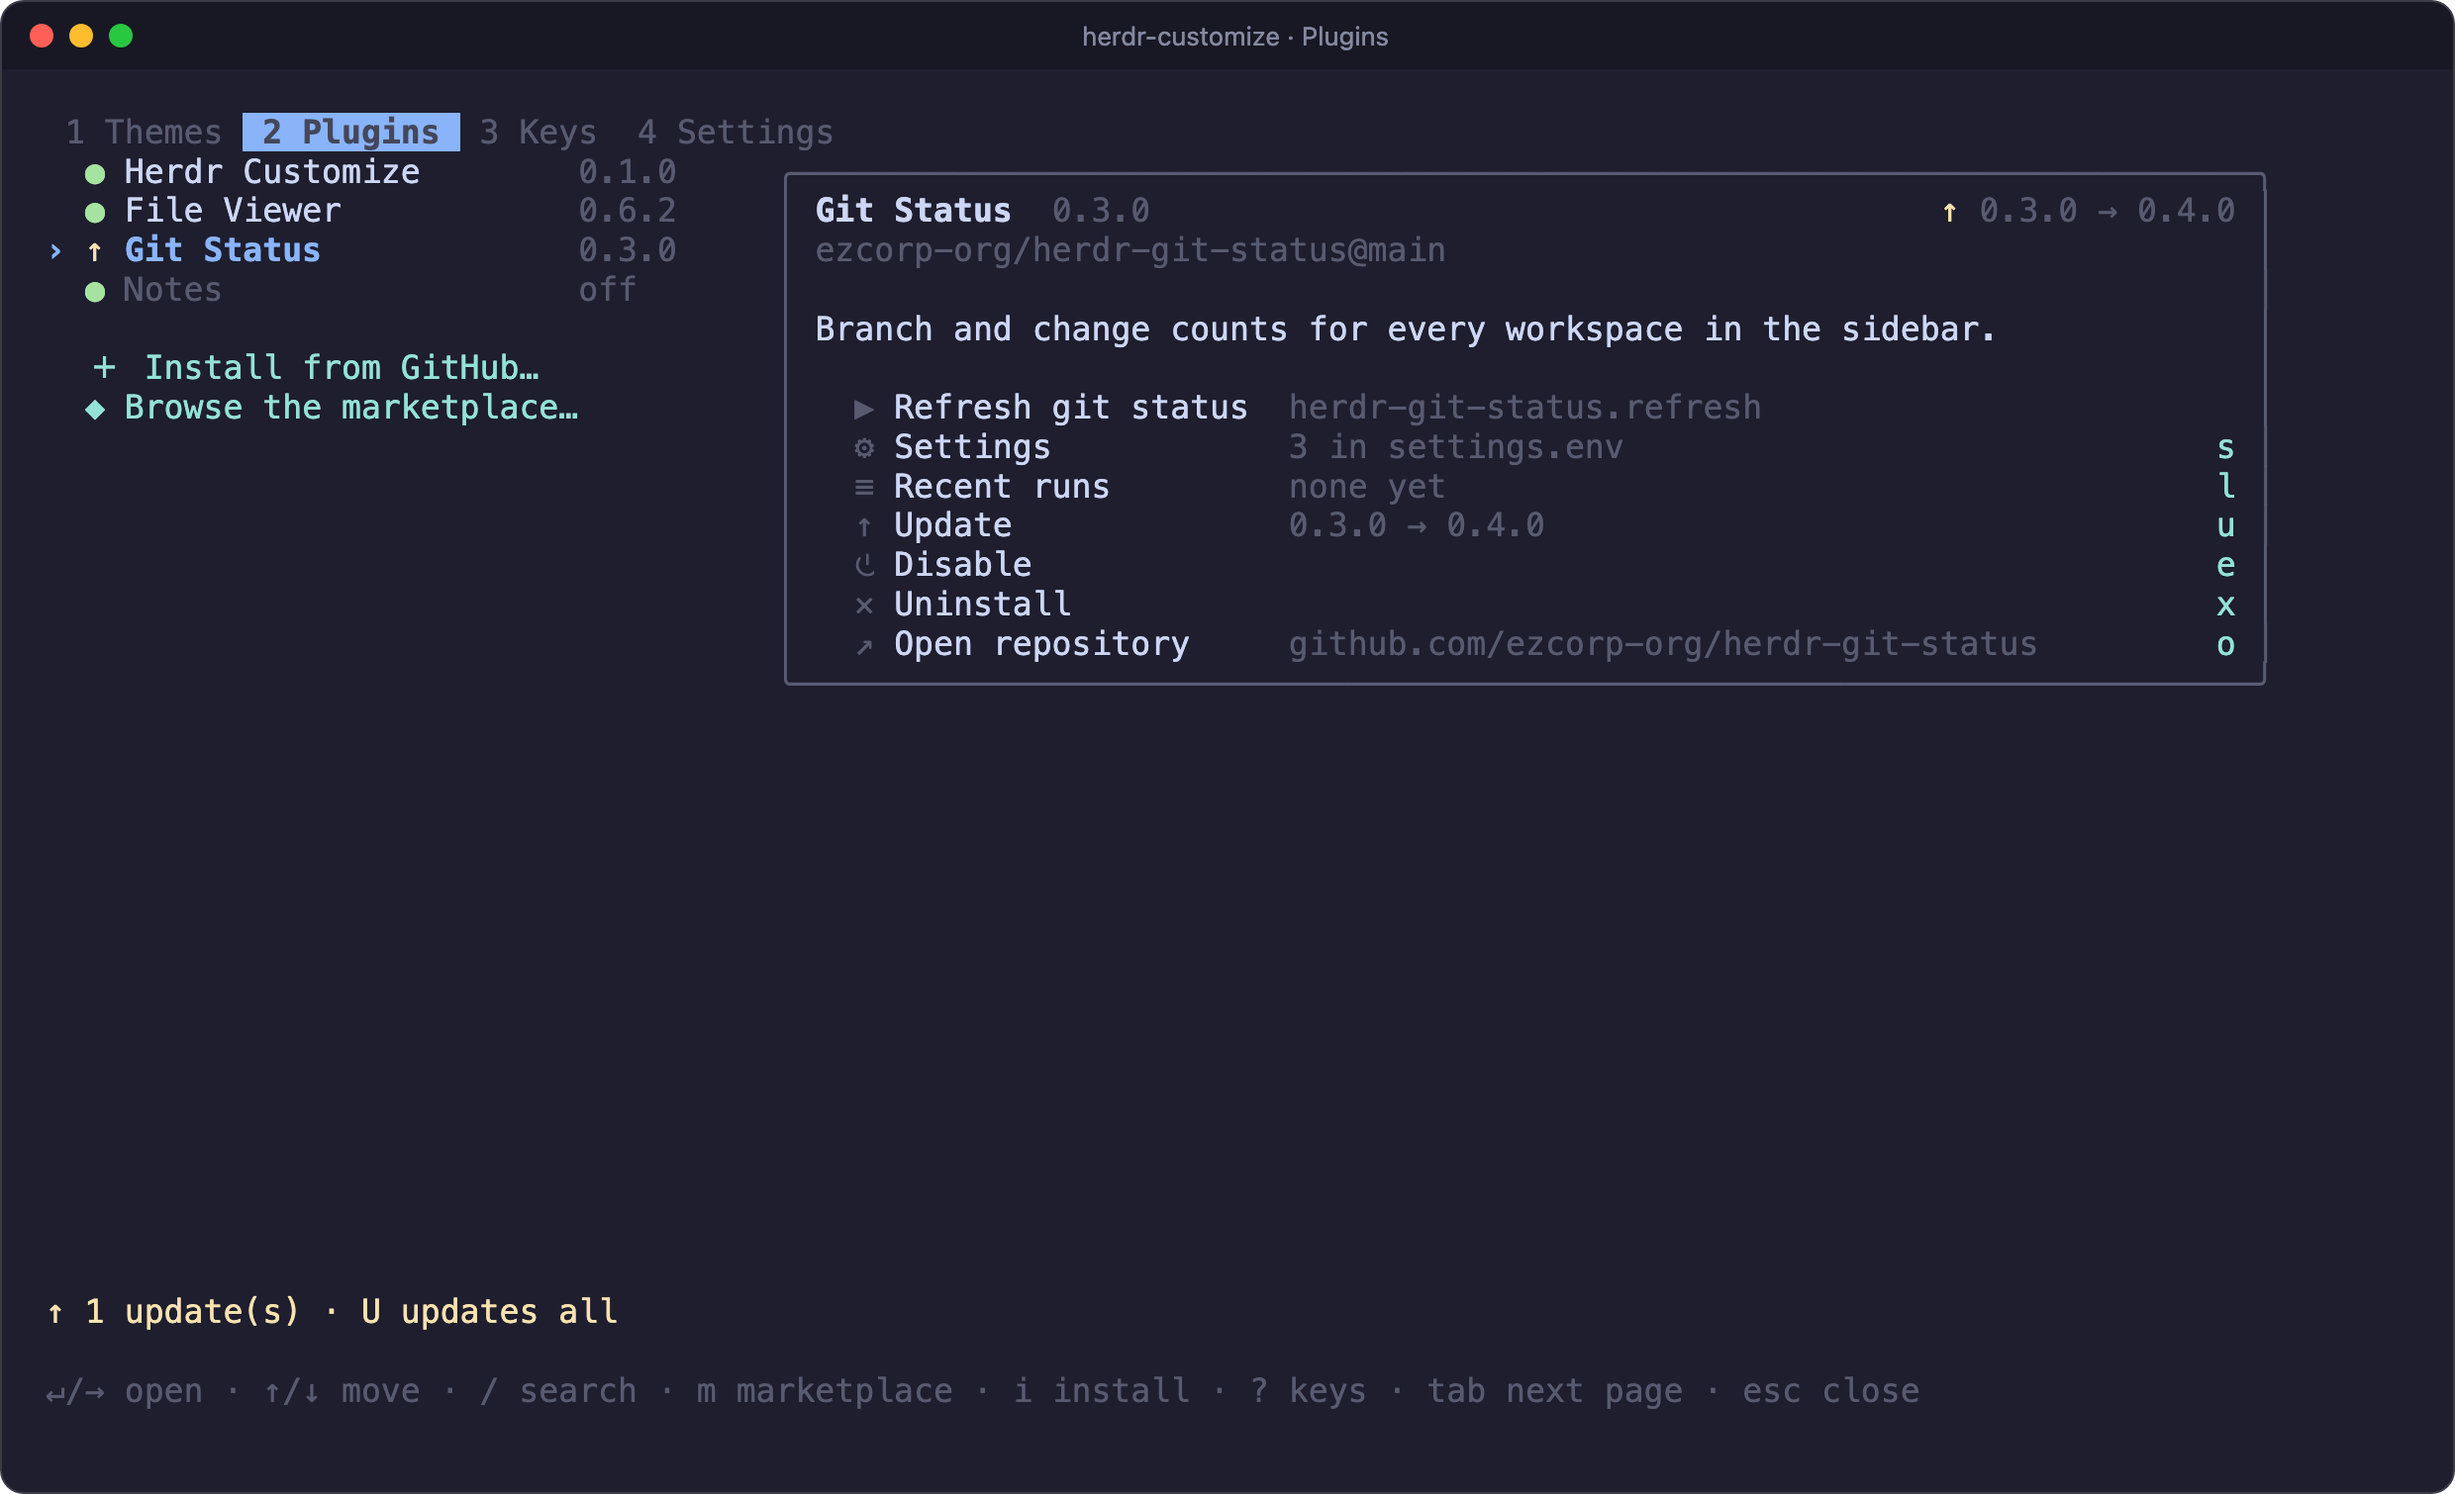
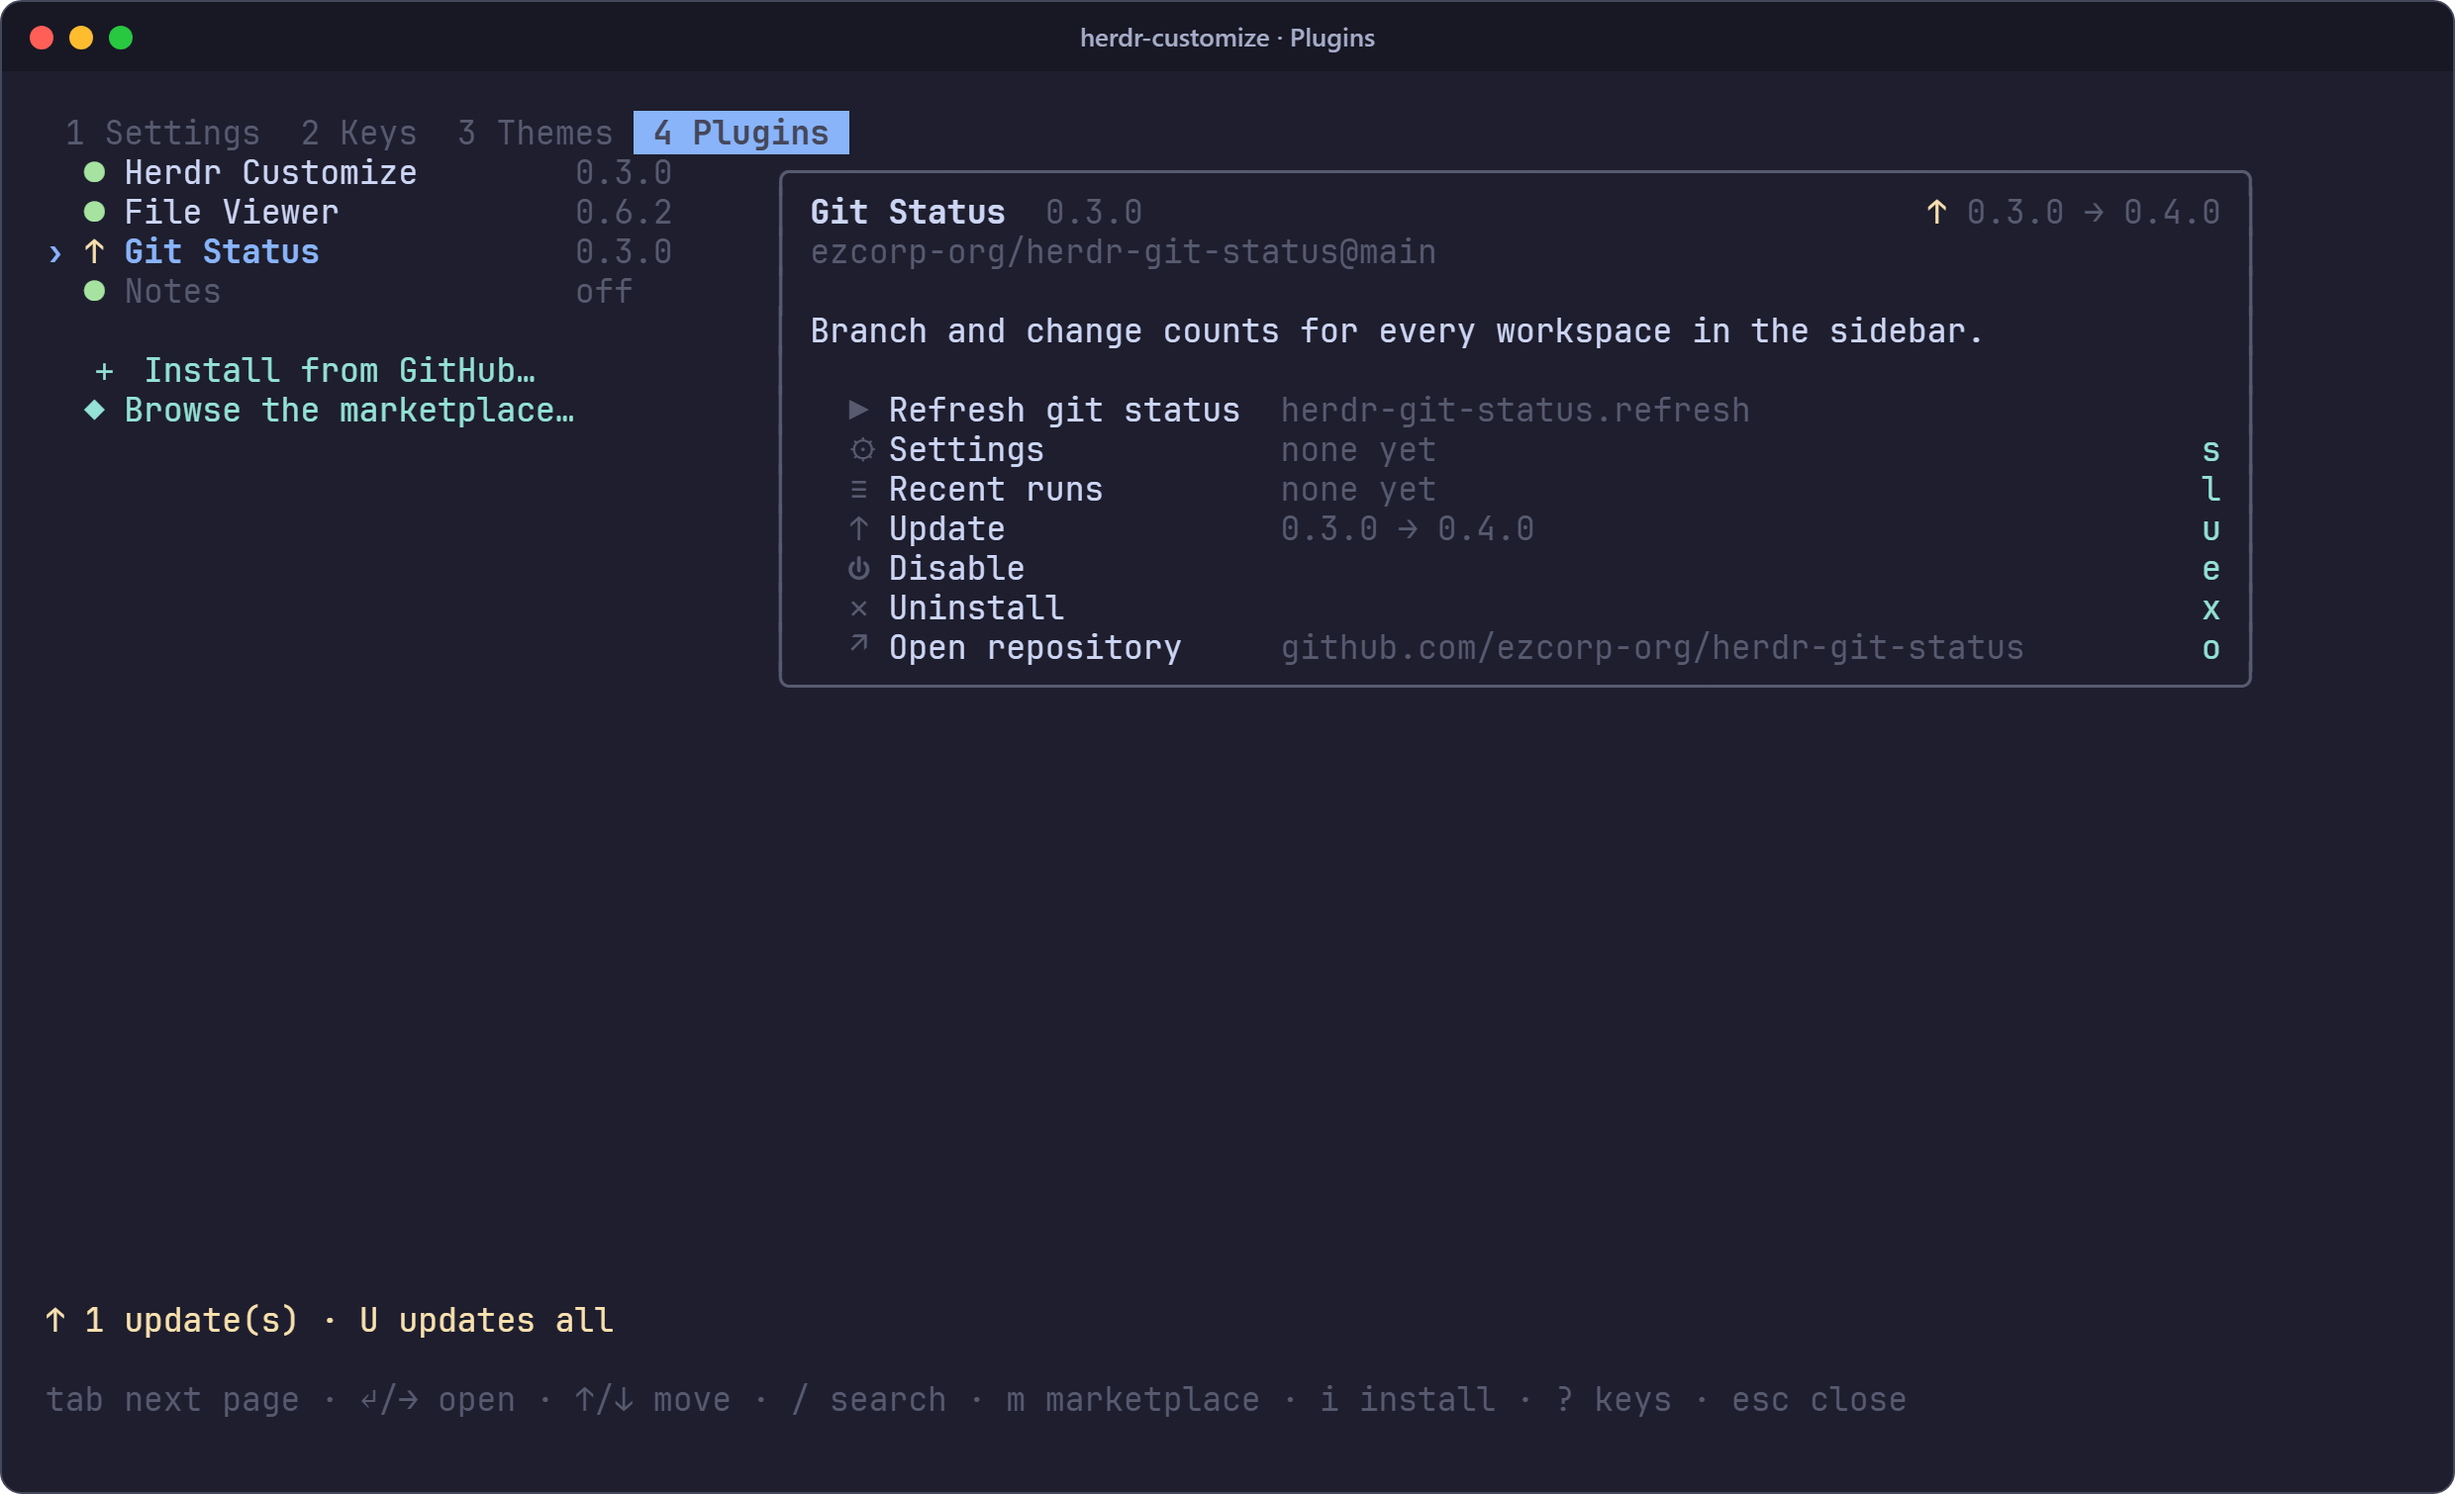
docs: redo the screenshots with settings first
The hero image is now the Settings page, and the page list and the
screenshot table follow the new tab order.

diff --git a/README.md b/README.md
@@ -3,30 +3,30 @@
 Customize [Herdr](https://herdr.dev) from one popup instead of editing
 `config.toml` by hand. It runs on Linux, macOS and Windows.
 
-![The Themes page: bundled palettes on the left, a live preview of the selected theme on the right](docs/screenshots/themes.png)
+![The Settings page: every Herdr setting grouped by section, with the allowed values on each row](docs/screenshots/settings.png)
 
 The popup has four pages. **Tab** and **Shift+Tab** switch pages, as do
 **1** to **4**. Arrow keys only move within a page.
 
+- **Settings**: every documented setting for your Herdr version, with the
+  allowed values shown on each row.
+- **Keys**: every Herdr action and its binding, your custom
+  `[[keys.command]]` entries, and plugin actions that have no key yet.
+  Conflicts are flagged before you save.
 - **Themes**: 112 bundled [terminalcolors.com](https://terminalcolors.com)
   palettes with a live preview. Picking one recolors Herdr's UI and the
   terminal running it.
 - **Plugins**: your installed plugins and their actions, update checks,
   install, enable/disable, uninstall, logs, each plugin's own settings, and a
   marketplace.
-- **Keys**: every Herdr action and its binding, your custom
-  `[[keys.command]]` entries, and plugin actions that have no key yet.
-  Conflicts are flagged before you save.
-- **Settings**: every documented setting for your Herdr version, with the
-  allowed values shown on each row.
 
 The plugin edits `config.toml` in place and keeps your comments and layout.
 It runs `herdr config check` on every change before writing it, then reloads
 Herdr.
 
-| Plugins | Keys | Settings |
+| Keys | Themes | Plugins |
 | --- | --- | --- |
-| ![Plugins page with an update available](docs/screenshots/plugins.png) | ![Keys page flagging a conflict](docs/screenshots/keys.png) | ![Settings page with enum values on each row](docs/screenshots/settings.png) |
+| ![Keys page flagging a conflict](docs/screenshots/keys.png) | ![Themes page with a live preview of the selected palette](docs/screenshots/themes.png) | ![Plugins page with an update available](docs/screenshots/plugins.png) |
 
 ## Install
 
@@ -224,7 +224,7 @@ reload, so press Herdr's reload key in the client afterwards
 ### Commands
 
 ```sh
-herdr-customize ui [page]              # the popup: themes, plugins, keys or settings
+herdr-customize ui [page]              # the popup: settings, keys, themes or plugins
 herdr-customize open [page]            # open the popup inside Herdr from a shell
 herdr-customize bind [key]             # bind a key to the popup (default: prefix+t)
 herdr-customize apply dracula-default  # apply a theme by name
